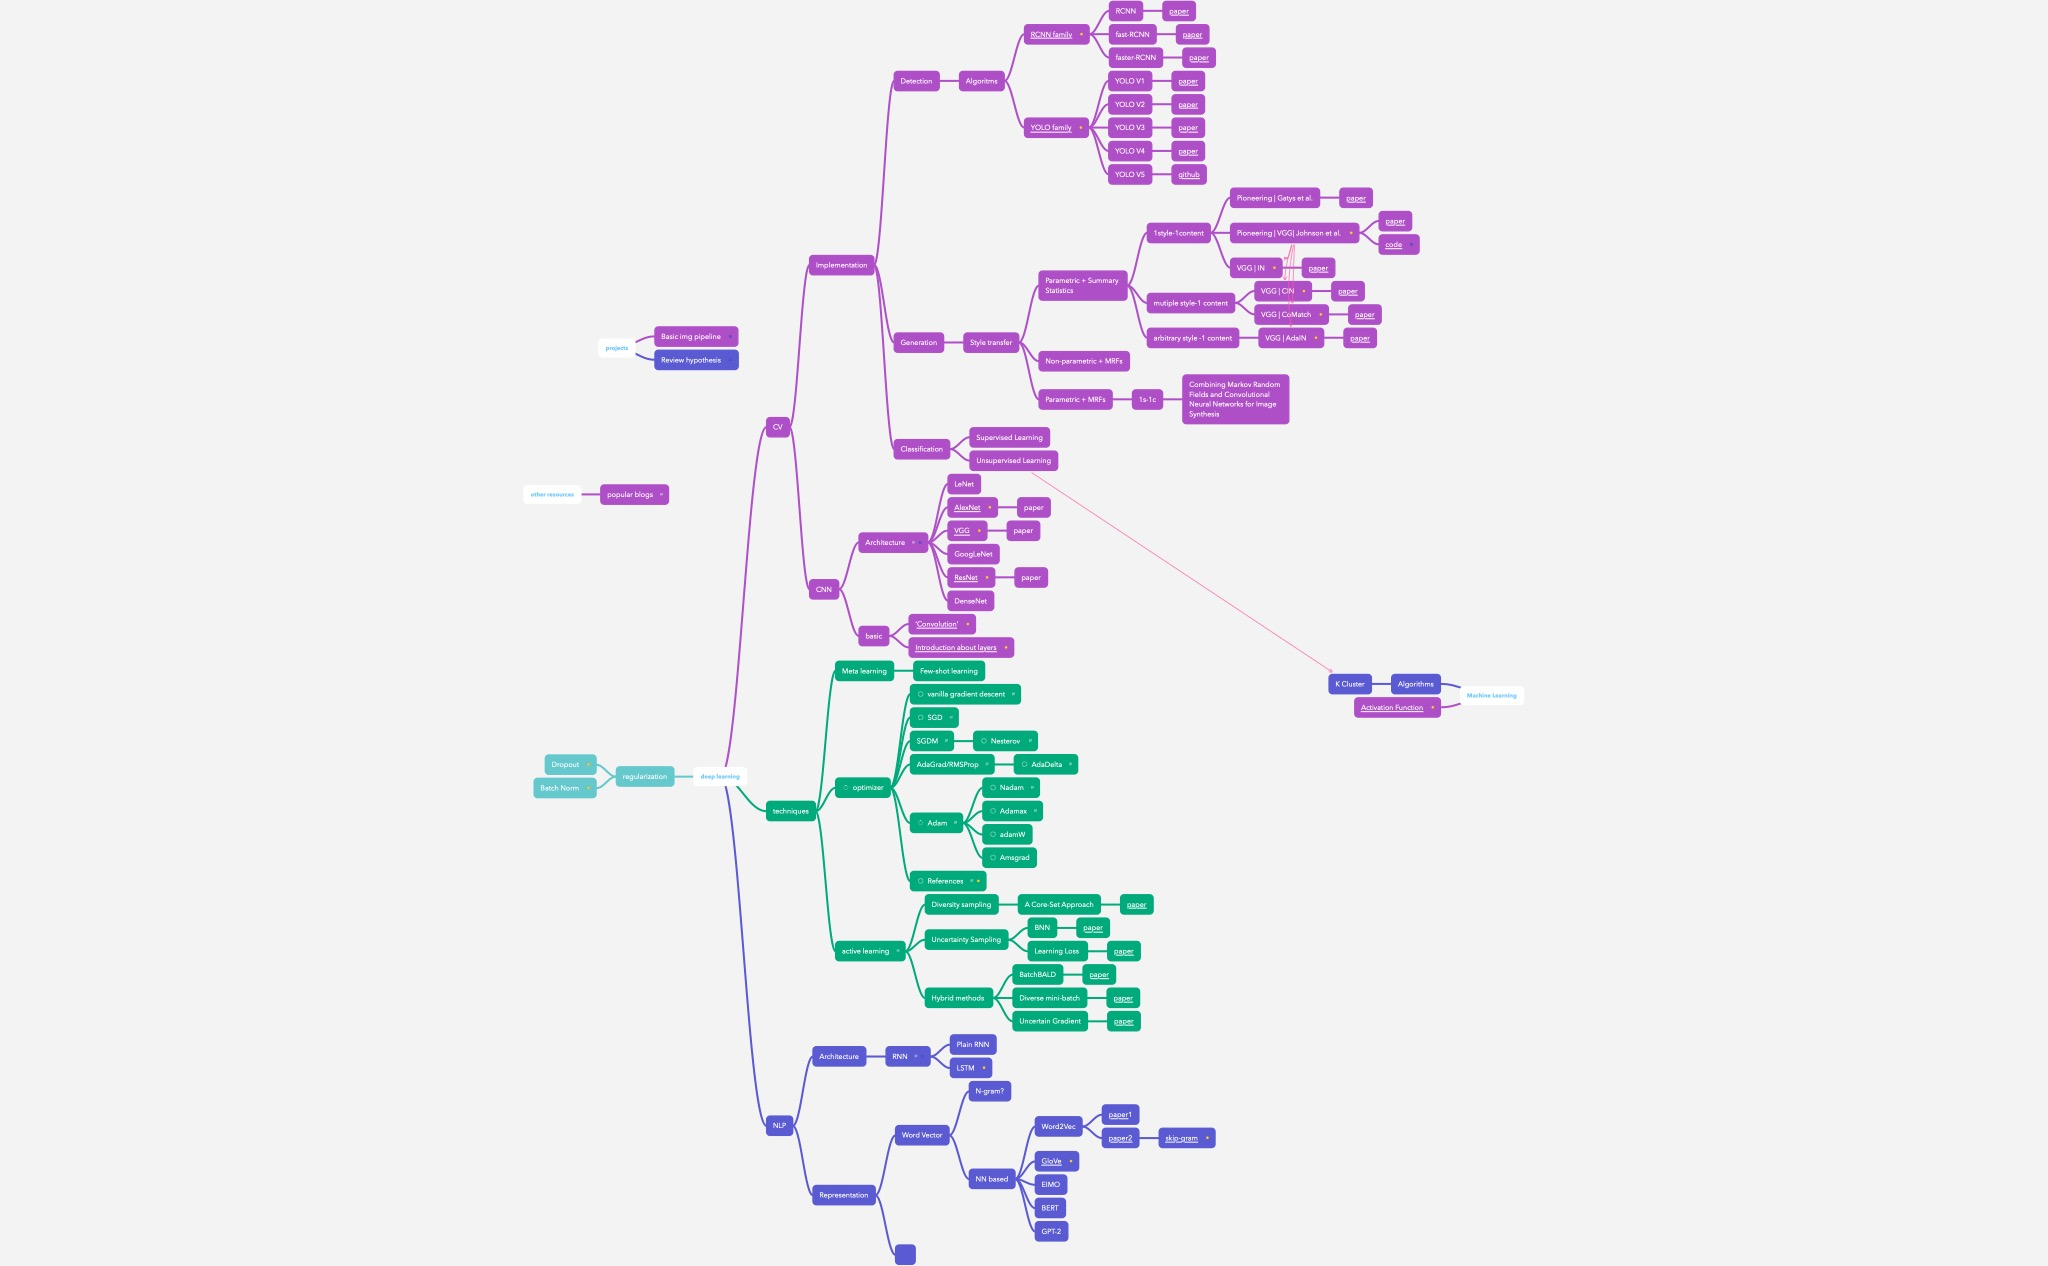
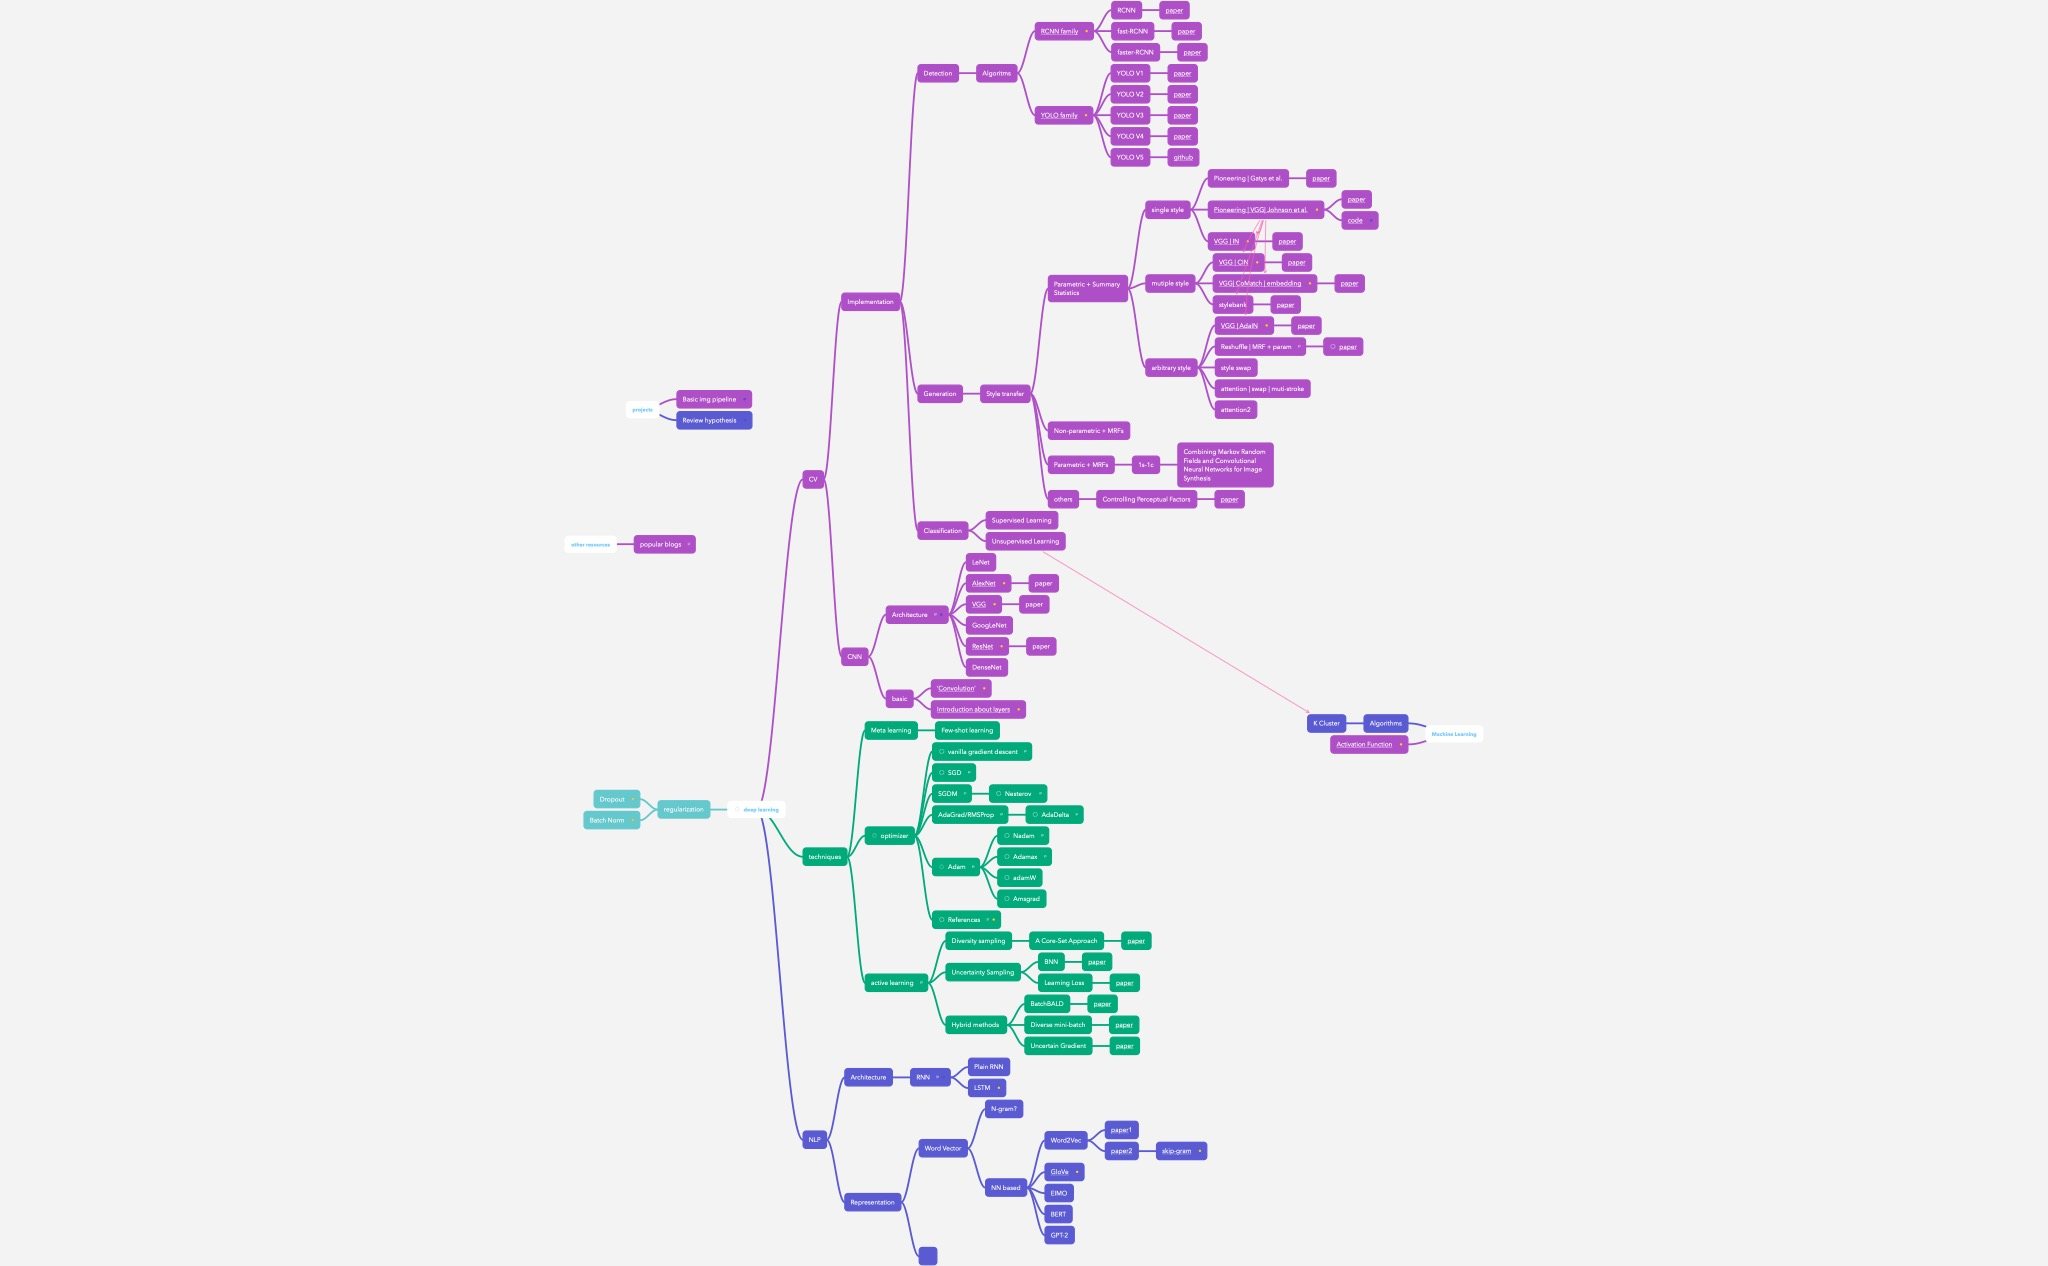
add style transfer

diff --git a/paper-reading/Real-Time Style Transfer, IN, CIN, AdaIN.md b/paper-reading/Real-Time Style Transfer, IN, CIN, AdaIN.md
@@ -1,10 +1,10 @@
 # Real-Time Style Transfer, IN, CIN, AdaIN
 
-(Vanilla)[Perceptual Losses for Real-Time Style Transfer and Super-Resolution ](https://arxiv.org/abs/1603.08155)     
-(IN)[Instance Normalization: The Missing Ingredient for Fast Stylization](https://arxiv.org/abs/1607.08022)       
-(CIN)[A LEARNED REPRESENTATION FOR ARTISTIC STYLE](https://arxiv.org/abs/1610.07629)      
-(CoMatch)[Multi-style Generative Network for Real-time Transfer](https://arxiv.org/abs/1703.06953)          
-(AdaIN)[Arbitrary Style Transfer in Real-time with Adaptive Instance Normalization](https://arxiv.org/abs/1703.06868)
+(Vanilla)[Perceptual Losses for Real-Time Style Transfer and Super-Resolution](https://arxiv.org/abs/1603.08155) \[1]     
+(IN)[Instance Normalization: The Missing Ingredient for Fast Stylization](https://arxiv.org/abs/1607.08022)  \[2]     
+(CIN)[A LEARNED REPRESENTATION FOR ARTISTIC STYLE](https://arxiv.org/abs/1610.07629) \[3]    
+(CoMatch)[Multi-style Generative Network for Real-time Transfer](https://arxiv.org/abs/1703.06953) \[4]         
+(**AdaIN**)[Arbitrary Style Transfer in Real-time with Adaptive Instance Normalization](https://arxiv.org/abs/1703.06868)\[5]\
 
 
 
@@ -17,9 +17,11 @@
 2. perceptual loss + gram matrix or other statistics(MRF, other second-order statistics)
 3. Cnn could be used to define losses in image reconstruction tasks(VGG)
 4. With the affine transformation after the normalization, style transfer can be done without extra training.
+5. The model with IN converges faster and has better quanlity than the BN model. 
+6. IN does perform a kind of style normalization
 
 
-## Method
+## Method \[1]
 
 ### Pipeline 
 
@@ -62,23 +64,18 @@ Increase the capacity of the network.
 ![](../res/style17.gif)
 (optional: a total variation loss could be employed to encourage smoothness)
 
-## Evaluation
+### Train & Test
 
->**feature reconstruction**      
-><img src="../res/style18.png" width = "600" height = "300" align=center />        
->
->
->**style reconstruction**     
-><img src="../res/style19.png" width = "600" height = "300" align=center />     
->
->
->**result**      
-><img src="../res/style20.png" width = "600" height = "300" align=center />
+During training, content images from a large dataset are forwarded through the transformer net and then evaluated by the loss function based on the VGG.
 
+To generate(test) a image, a single content image will be passed through the transformer net to obtain the stylized image.
 
-### [Instance normalization](https://arxiv.org/abs/1607.08022)
+### Instance normalization\[2]
 
-This method removes **instance-specific contrast information** from the content **content image**, because the result of stylish should not depend on the contrast of the content image.
+1. Intuitively, the batch normalization would normlize the images among the whole batch, blurring the information.
+1. This method removes **instance-specific contrast information** from the content **content image**, because the result of stylish should not depend on the contrast of the content image. 
+2. Methods with instance normalization converge faster than methods with batch normalization.
+
 
 Formula:     
 >Batch Normalization:
@@ -92,7 +89,87 @@ Result:
 
 ><img src="../res/style16.png" width = "600" height = "450" align=center />
 
-### Conditional Instance Normalization 
+### Conditional Instance Normalization(Multi-Style) \[3]
+
+
+Intuitively, because the images are embedded in a linearly separabel space, separate affine transformation could learn to transform content embedding to different stylized images.       
+    
+CORE:    
+>"Our work stems from the intuition that many styles probably share some degree of computation, and that this sharing is thrown away by training N networks from scratch when building an N- styles style transfer system."
+
+>"All convolutional weights of a style transfer network can be shared across many styles, and it is sufficient to tune parameters for an affine transformation after normalization for each style."
+
+--> Learning affine transformations for individual styles after every BN layers(sharing other parameters) is capable enough for real-time multi-style transformation.
+
+Seperate parameters for different styles:     
+><img src="../res/style21.png" width = "600" height = "200" align=center /> 
+
+During training, a style image together with its indexs are randomly chosen from a fixed set of styles.     
+During testing, the content image is forwarded with corresponding affine transformation parameters.       
+
+Result:
+><img src="../res/style22.png" width = "600" height = "450" align=center />
+
+### CoMatch layer(style embedding)\[4]
+
+CORE:
+>"The comprehensive appearance of image style is fundamentally difficult to represent in 1D embedding space."
+>
+>"The 1D style embedding (featuremap mean and variance) fundamentally limits the potential of exploring finer behavior for style representations. Therefore, a 2D method(Gram matrix) is desired for finer representation of image styles."
+
+Method:
+
+1. Explicitly define the tranformations with formula in the tranformer.
+2. 2D matrixes of the style embedding and the content embedding are "CoMatched" to define the tranformation output.
+
+Pipeline:
+
+><img src="../res/style25.png" width = "700" height = "300" align=center />
+
+### AdaIN(Arbitrary-Style)\[5]
+   
+>"AdaIN performs style transfer in the feature space by transferring feature statistics, specifically the channel-wise mean and variance."     
+>"**Unlike BN, IN or CIN, AdaIN has no learnable affine parameters.**"   
+><img src="../res/style26.png" width = "380" height = "180" align=center>
+
+pipeline:    
+><img src="../res/style28.png" width = "480" height = "280" align=center>
+>"we do not use normaization layers in the decoder."
+
+Loss:    
+><img src="../res/style27.png" width = "350" height = "100" align=center>
+
+Result:       
+><img src="../res/style29.png" width = "500" height = "450" align=center />
+
+### Upsampling techniques
+
+#### Checkerboard artifacts
+
+1. Standard fractional-strided convolution with singular stride is likely to bring checkerboard like artifacts.([A popular blog explained it](https://distill.pub/2016/deconv-checkerboard/))
+2. Traditional upsampling techniques(bilinear interpolation, bicubic...) + conv layer can neutralize the effect of checkerboard artifact. However, the receptive field would decrease significantly.
+3. Upsampled convolution[4] layers successfiully avoid upsampling artifacts, although it need 4x parameters: \[4]   
+
+><img src="../res/style23.png" width = "370" height = "240" align=center />
+
+####	upsampling residual block\[4]
+
+>"Passing identity all the way through the generative network enables the network to extend deeper and converge faster."
+
+
+## Evaluation\[1]
+
+>**feature reconstruction**      
+><img src="../res/style18.png" width = "600" height = "300" align=center />        
+>
+>
+>**style reconstruction**     
+><img src="../res/style19.png" width = "600" height = "300" align=center />     
+>
+>
+>**result**      
+><img src="../res/style20.png" width = "600" height = "300" align=center />
+
 
 ## The Reference of papers
 
@@ -108,3 +185,12 @@ Result:
 
 ## Reference 
 
+[1] Johnson, Justin & Alahi, Alexandre & Fei-Fei, Li. (2016). Perceptual Losses for Real-Time Style Transfer and Super-Resolution. 9906. 694-711. 10.1007/978-3-319-46475-6_43.
+
+[2] Ulyanov, Dmitry & Vedaldi, Andrea & Lempitsky, Victor. (2016). Instance Normalization: The Missing Ingredient for Fast Stylization. 
+
+[3] Dumoulin, Vincent & Shlens, Jonathon & Kudlur, Manjunath. (2016). A Learned Representation For Artistic Style. 
+
+[4] Zhang, Hang & Dana, Kristin. (2017). Multi-style Generative Network for Real-time Transfer. 
+
+[5] Huang, Xun & Belongie, Serge. (2017). Arbitrary Style Transfer in Real-time with Adaptive Instance Normalization. 

diff --git a/paper-reading/Upsampling techniques .md b/paper-reading/Upsampling techniques .md
@@ -1,0 +1,2 @@
+# Upsampling techniques in CNN
+
